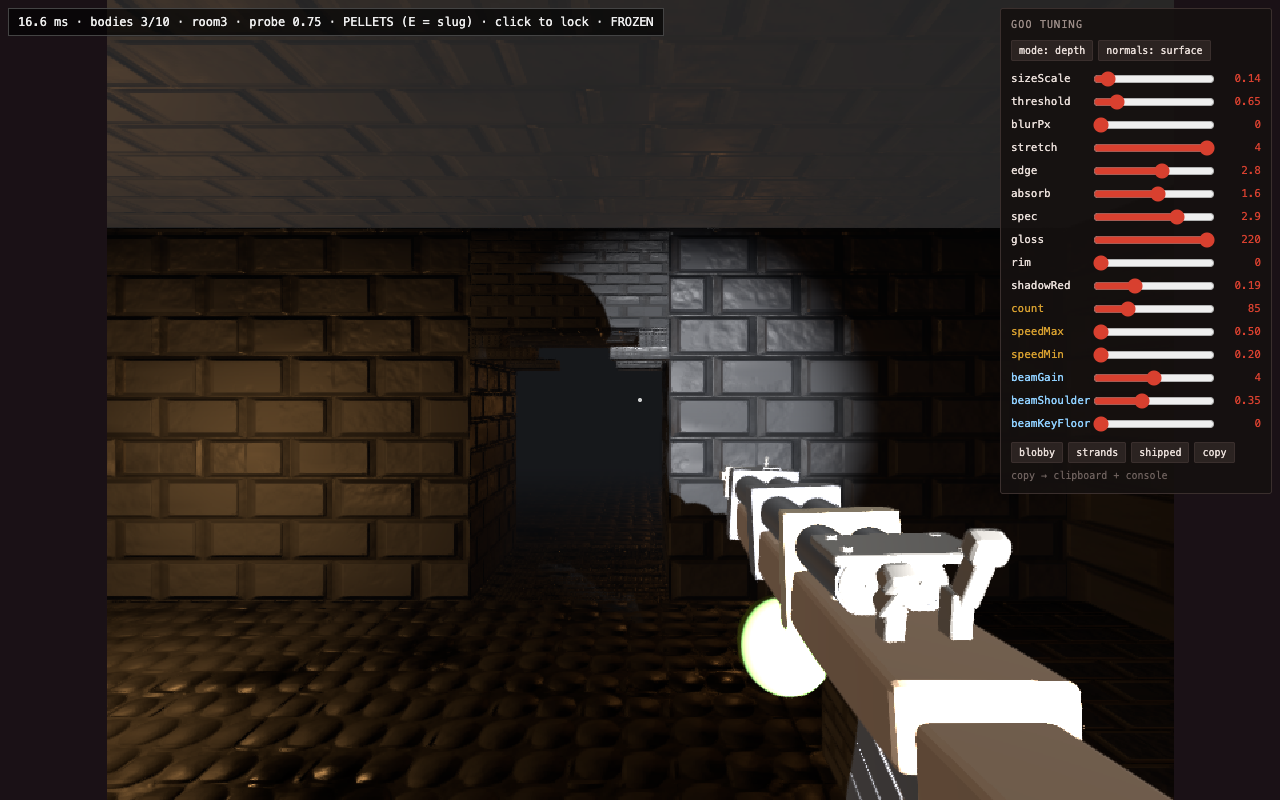
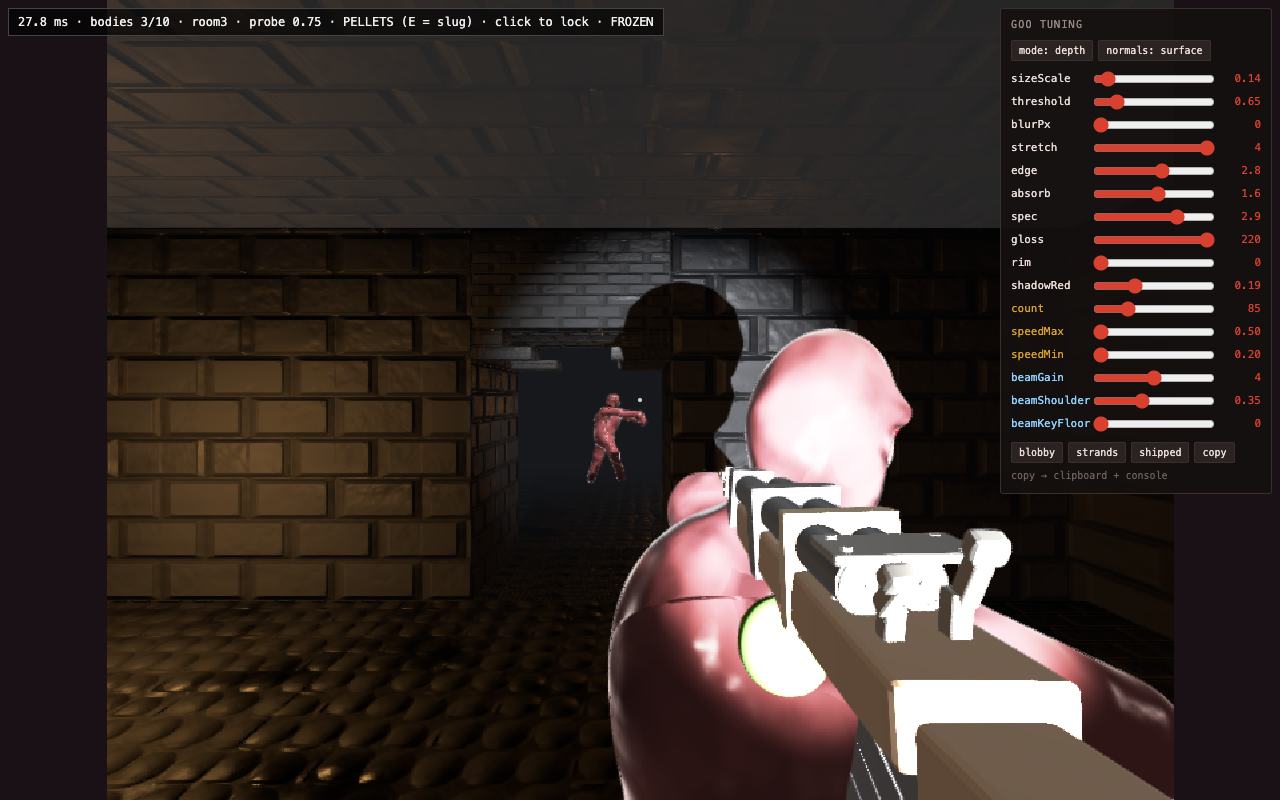
perf round 2 task 7: notes — level shadows landed, smoke clean (no acne), pillar gate left to the owner

diff --git a/docs/dev-notes/2026-09-01-sdf-perf-round2/notes.md b/docs/dev-notes/2026-09-01-sdf-perf-round2/notes.md
@@ -744,3 +744,17 @@ Gates below.
 **Bench:** not run — **DEFERRED to task 9** (`setAa(0)` lever in the sweep). The step deltas above are the load-immune signal: −11% near, −18.6% far on hit pixels.
 
 **Default:** `GAME_AA = 1.0` ships. Verdict: PASS on all three gates.
+
+## Task 7 — bodies receive the level's shadows (2026-09-02, branch dispatch/2026-09-01-sdf-render-perf-r2-task-7)
+
+Written by the controller from the run's commits and its smoke capture; the run hit its cap while re-running that capture after a fix.
+
+**What landed (3 commits + auto-commit):** `LEVEL_SHADOW` helper (4-tap PCF on a `texture_depth_2d`, normal + depth bias in `levelShadowCfg`), gated into MARCH_BODY's key and specular terms only (`341ecf7`); a level-only twin `SpotLight` (intensity 0, shadow camera on layer 0, posed with the flashlight every frame) and the march binding of its `shadow.map.depthTexture` + `shadow.matrix` (`84457b7`); seam `__sdfGame.setLevelShadow()`, default `GAME_LEVEL_SHADOW = 1.0`. Suite green on the tip (693 webgpu tests), `tsc` clean.
+
+**A real bug found and fixed on the way (`a53161d`):** the first smoke run's pipeline failed to compile because the `texture_depth_2d` parameter was emitted as a `0.0` float literal. Cause: a colon pattern inside the wgslFn signature COMMENT was read by three's WGSL function parser as a phantom input, shifting every later binding by one — `levelShadowTex` landed on a `float(0)`. Fix: comment reworded, plus a regression test that runs three's real parser over the source. Same hazard class as the file header's "each source must begin with fn" and the backtick-in-template trap the run also hit once. Recorded as a warning in memory.
+
+**Smoke capture (room 3 default frozen view, `setLevelShadow(true/false)`, `task7/smoke-r3`):** noise floor 124 px; a-vs-b 519 / 461 px with one hot cell (19,14); same-state pairs 112 / 93 px. Controller's read of the enlarged pair (left ON, right OFF): the near body is pixel-identical — **no acne** — and the far body through the doorway takes a plausible partial shadow from the door frame; nothing missing, no halo. **The planned pillar-between-lamp-and-body staging did NOT run** (out of time), so the shadow-edge read is the owner's: `__sdfGame.setLevelShadow(true/false)` on the test page, standing so a pillar shadows a zombie. Bias knobs live in `levelShadowCfg` (normal bias 0.02 m, depth bias 0.0005).
+
+**Bench:** not run — **DEFERRED to task 9** (`setLevelShadow(false)` lever). Expected cost: one extra 1024² level-only depth pass per frame plus one shadow-map tap per hit pixel.
+
+**Default:** ships 1.0, seam kept. Verdict: landed and compiling; smoke clean; pillar gate pending owner eyeball.
